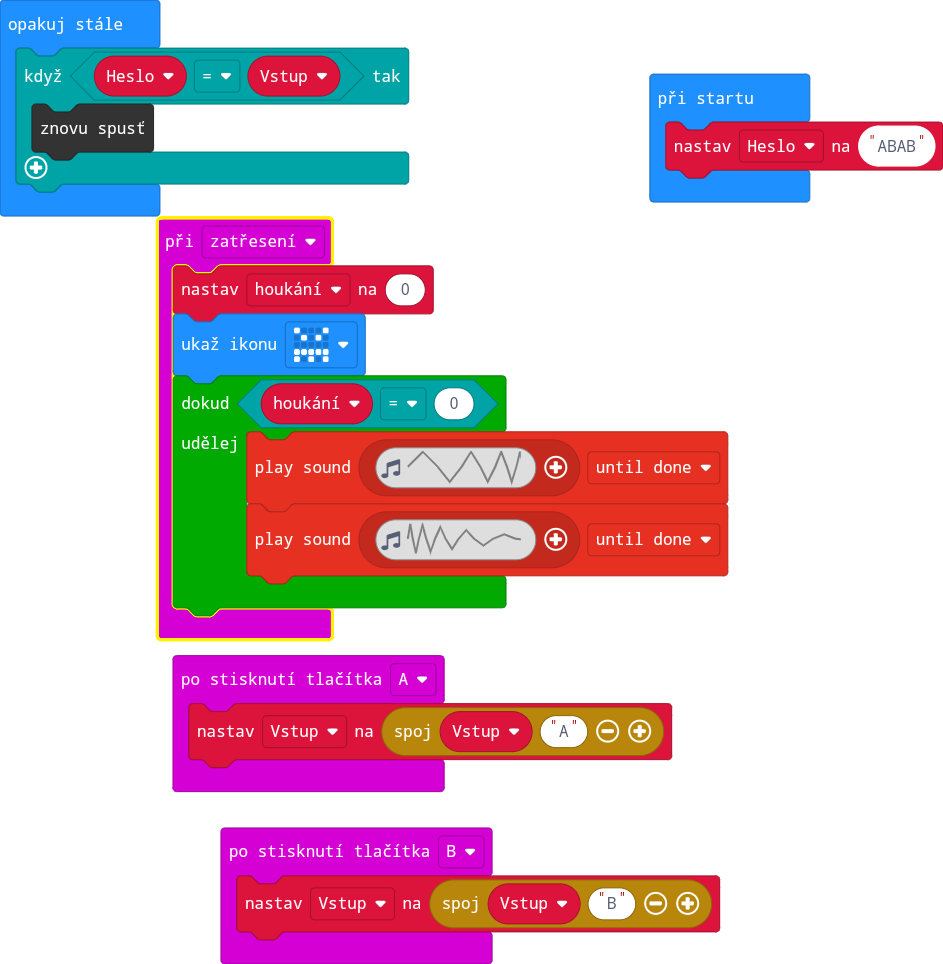
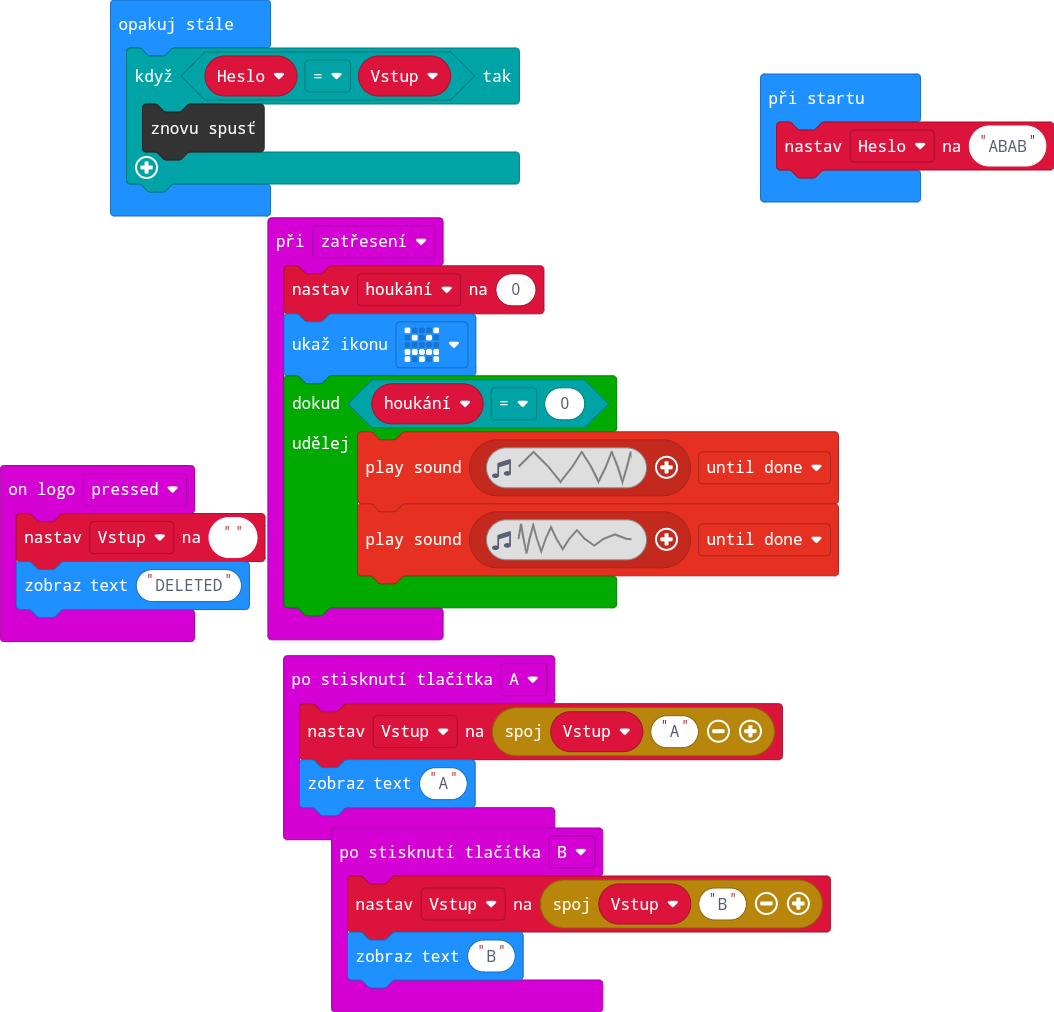
Aktualizovat main.blocks, main.ts

diff --git a/main.ts b/main.ts
@@ -1,8 +1,10 @@
 input.onButtonPressed(Button.A, function () {
     Vstup = "" + Vstup + "A"
+    basic.showString("A")
 })
 input.onButtonPressed(Button.B, function () {
     Vstup = "" + Vstup + "B"
+    basic.showString("B")
 })
 input.onGesture(Gesture.Shake, function () {
     houkání = 0
@@ -11,6 +13,10 @@ input.onGesture(Gesture.Shake, function () {
         music.playSoundEffect(music.createSoundEffect(WaveShape.Triangle, 1, 5000, 255, 255, 500, SoundExpressionEffect.None, InterpolationCurve.Linear), SoundExpressionPlayMode.UntilDone)
         music.playSoundEffect(music.createSoundEffect(WaveShape.Triangle, 5000, 1, 255, 0, 500, SoundExpressionEffect.None, InterpolationCurve.Linear), SoundExpressionPlayMode.UntilDone)
     }
+})
+input.onLogoEvent(TouchButtonEvent.Pressed, function () {
+    Vstup = ""
+    basic.showString("DELETED")
 })
 let houkání = 0
 let Vstup = ""
